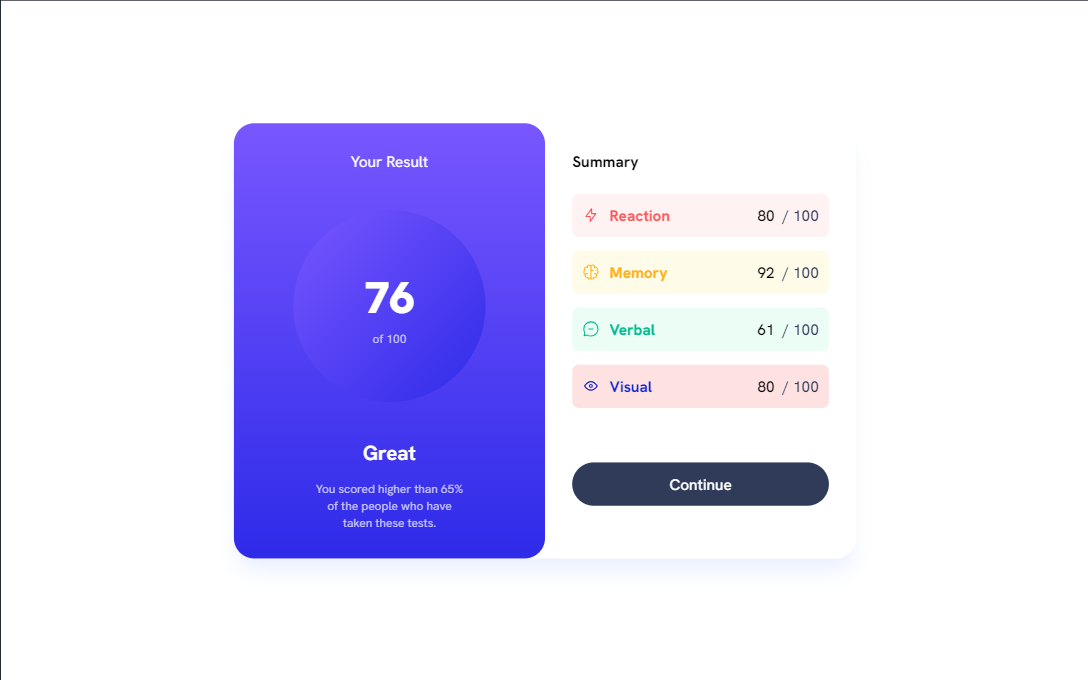
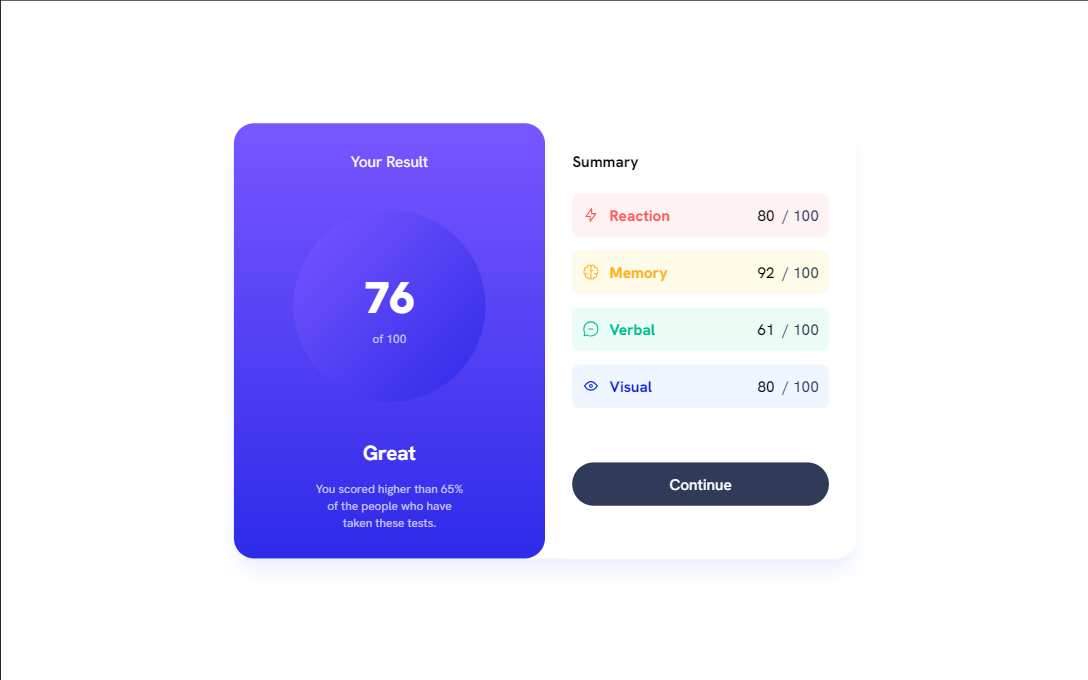
docs(readme): changes on preview images

Changed region(s): [[0.5, 0.525, 0.7812, 0.6176]]

diff --git a/src/styles/output.css b/src/styles/output.css
@@ -548,10 +548,6 @@ video {
   margin: auto;
 }
 
-.mt-16 {
-  margin-top: 4rem;
-}
-
 .mt-6 {
   margin-top: 1.5rem;
 }
@@ -648,6 +644,11 @@ video {
   background-color: rgb(254 252 232 / var(--tw-bg-opacity));
 }
 
+.bg-blue-50 {
+  --tw-bg-opacity: 1;
+  background-color: rgb(239 246 255 / var(--tw-bg-opacity));
+}
+
 .bg-gradient-to-t {
   background-image: linear-gradient(to top, var(--tw-gradient-stops));
 }
@@ -695,10 +696,6 @@ video {
 
 .text-center {
   text-align: center;
-}
-
-.align-baseline {
-  vertical-align: baseline;
 }
 
 .text-2xl {
@@ -777,14 +774,6 @@ video {
   --tw-shadow: var(--tw-shadow-colored);
 }
 
-.transition {
-  transition-property: color, background-color, border-color, text-decoration-color, fill, stroke, opacity, box-shadow, transform, filter, -webkit-backdrop-filter;
-  transition-property: color, background-color, border-color, text-decoration-color, fill, stroke, opacity, box-shadow, transform, filter, backdrop-filter;
-  transition-property: color, background-color, border-color, text-decoration-color, fill, stroke, opacity, box-shadow, transform, filter, backdrop-filter, -webkit-backdrop-filter;
-  transition-timing-function: cubic-bezier(0.4, 0, 0.2, 1);
-  transition-duration: 150ms;
-}
-
 .transition-all {
   transition-property: all;
   transition-timing-function: cubic-bezier(0.4, 0, 0.2, 1);
@@ -803,20 +792,6 @@ body {
 .hover\:bg-gradientLightroyalblue:hover {
   --tw-bg-opacity: 1;
   background-color: hsl(241 81% 54% / var(--tw-bg-opacity));
-}
-
-.hover\:bg-gradient-to-t:hover {
-  background-image: linear-gradient(to top, var(--tw-gradient-stops));
-}
-
-.hover\:from-gradientLightroyalblue:hover {
-  --tw-gradient-from: hsl(241, 81%, 54%) var(--tw-gradient-from-position);
-  --tw-gradient-to: hsl(241 81% 54% / 0) var(--tw-gradient-to-position);
-  --tw-gradient-stops: var(--tw-gradient-from), var(--tw-gradient-to);
-}
-
-.hover\:to-gradientLightslateblue:hover {
-  --tw-gradient-to: hsl(252, 100%, 67%) var(--tw-gradient-to-position);
 }
 
 @media (min-width: 768px) {

diff --git a/index.html b/index.html
@@ -79,7 +79,7 @@
             <span class="flex p-3 font-medium">61 &nbsp<p class="text-neutralDarkgrayblue">/ 100</p></span>
           </div>
 
-          <div class="bg-red-100 flex justify-between content-center items-center rounded-lg ">
+          <div class="bg-blue-50 flex justify-between content-center items-center rounded-lg ">
             <span class="flex items-center">
               <img class="p-3" src="src/images/icon-visual.svg">
               <p class="text-primarycobaltblue font-bold">Visual</p>
